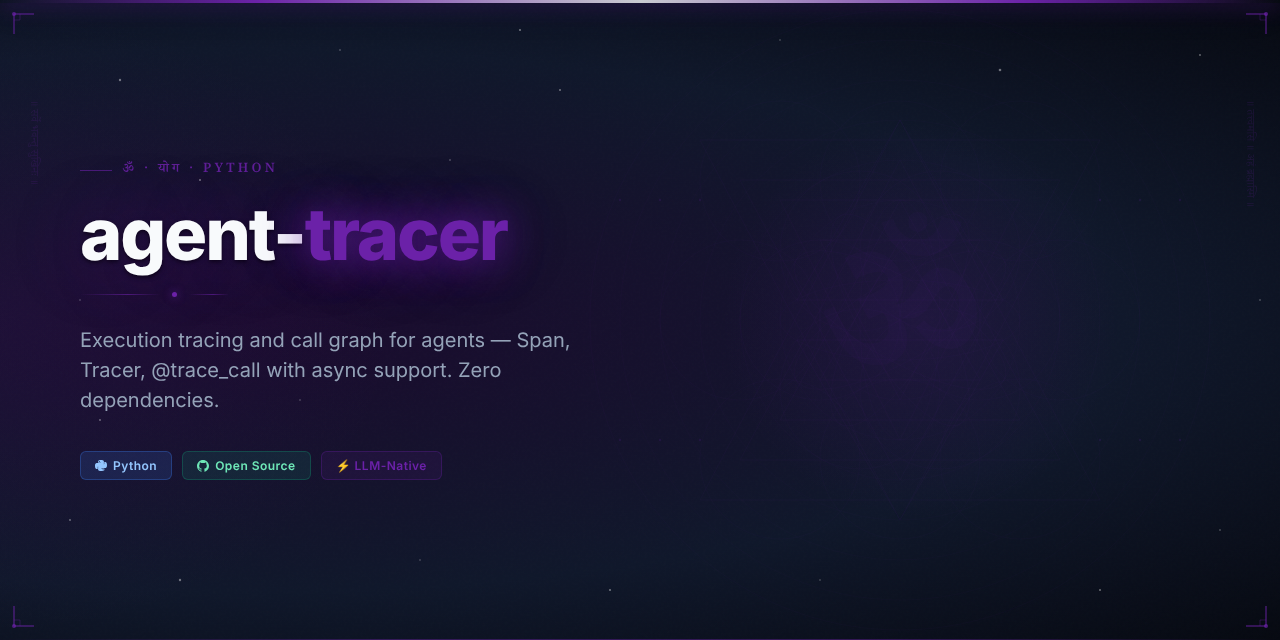
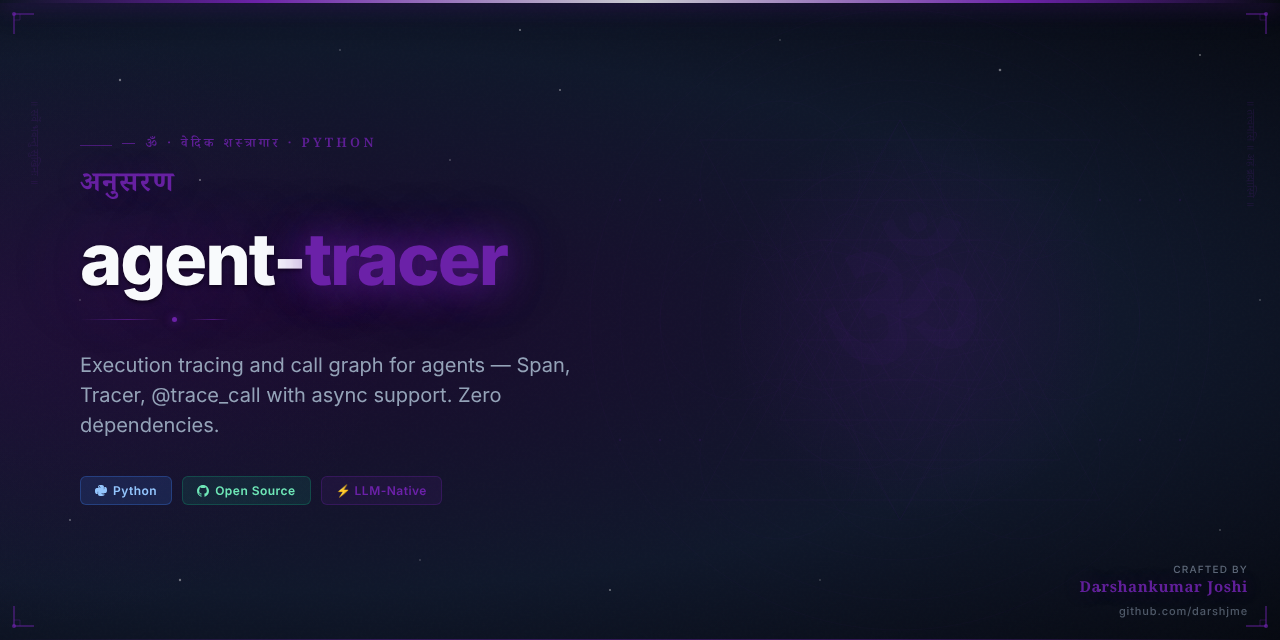
feat: add Vedic Arsenal hero image and updated README
Part of darshjme/arsenal — 100 production-grade Python libraries for LLM agents.
Vedic branding: ancient philosophy meets modern AI engineering.

diff --git a/README.md b/README.md
@@ -1,10 +1,12 @@
 <div align="center">
 
-<img src="assets/agent-tracer-hero.png" alt="agent-tracer — Vedic Arsenal" width="100%" />
+<img src="assets/agent-tracer-hero.png" alt="agent-tracer — Vedic Arsenal by Darshankumar Joshi" width="100%" />
 
 # 🔮 agent-tracer
 
-### *अनुसरण* — Anusarana — following the cosmic trace
+<h3><em>अनुसरण</em></h3>
+
+> *Anusarana — following the cosmic trace*
 
 **Execution tracing and call graph for agents — Span, Tracer, @trace_call with async support. Zero dependencies.**
 
@@ -39,6 +41,19 @@ Or clone directly:
 git clone https://github.com/darshjme/agent-tracer.git
 cd agent-tracer
 pip install -e .
+```
+
+## How It Works
+
+```mermaid
+flowchart LR
+    A[Input] --> B[agent-tracer]
+    B --> C{Process}
+    C -- Success --> D[Output]
+    C -- Error --> E[Handle / Retry]
+    E --> B
+    style B fill:#6b21a8,color:#fff
+    note["Tracer — Zero Dependencies"]
 ```
 
 ## Quick Start
@@ -90,7 +105,7 @@ MIT — use freely, build freely.
 
 <div align="center">
 
-**Built with 🔮 by [Darshankumar Joshi](https://github.com/darshjme)**
+**Built with 🔮 by [Darshankumar Joshi](https://github.com/darshjme)** · [@thedarshanjoshi](https://twitter.com/thedarshanjoshi)
 
 *"कर्मण्येवाधिकारस्ते मा फलेषु कदाचन"*
 *Your right is to action alone, never to the fruits thereof.*
